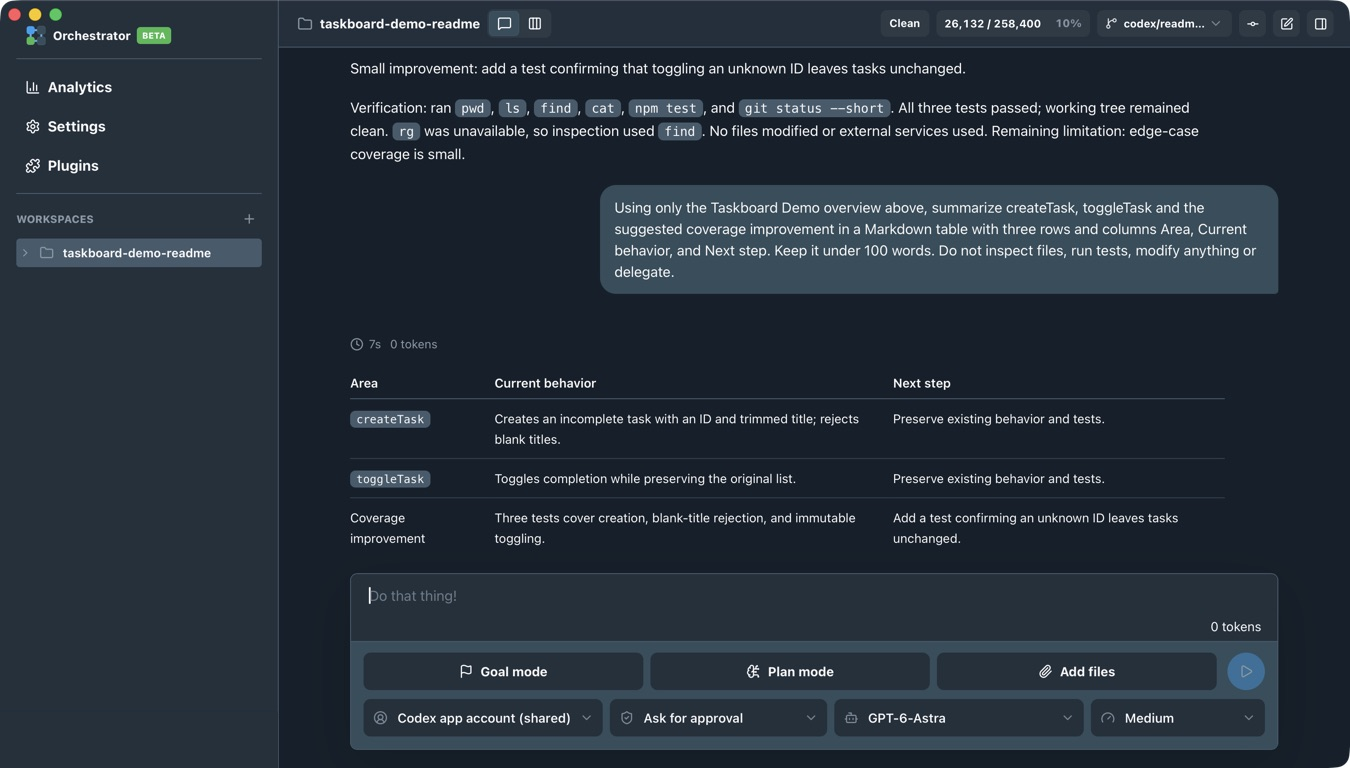
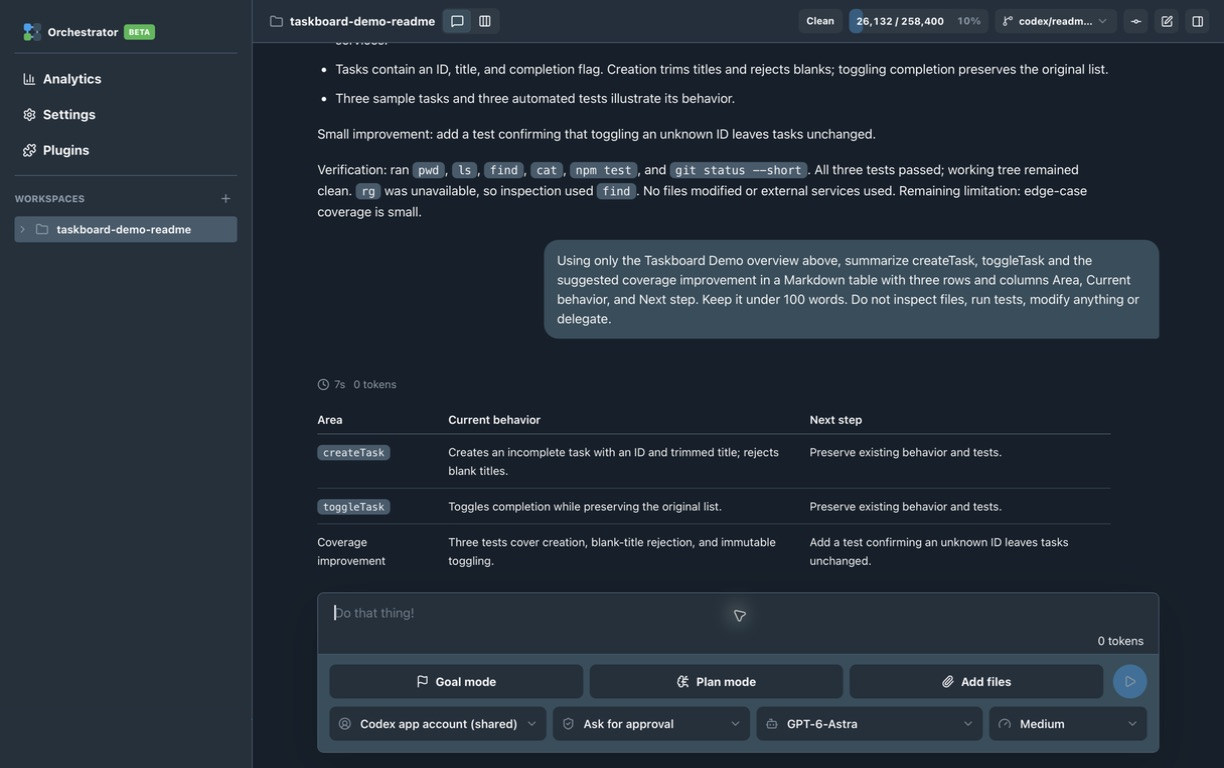
Use full-screen Chat and Kanban captures with square edges

diff --git a/docs/assets/screenshots/README.md b/docs/assets/screenshots/README.md
@@ -6,10 +6,10 @@ The README uses genuine Orchestrator screens and a fictional local project, **Ta
 
 - Candidate: `3f0704303ddc2ef8be010d477ddc998176a7ed26` (`0.2.0-beta.2`). The capture build uses the candidate application code unchanged, with a temporary Tauri configuration overriding only the isolated application identifier and initial window dimensions. Release preparation changes publication scripts and documentation only.
 - Chat was recaptured from the original isolated Taskboard Demo database and local repository. No personal database was copied. The follow-up asked for a three-row Markdown table based only on the existing overview, with no file inspection, modifications, tests or delegation. The response and its reported **7s / 0 tokens** are retained as displayed; the token figure is not corrected or inferred. The older verification text above it belongs to the original 8 September conversation.
-- Chat and Kanban exports: 1350 × 768 native capture pixels each, with consistent dark-theme window framing and no resizing or upscaling. The complete account footer at `(0, 712)`–`(278, 768)` was replaced with the existing opaque sidebar background. Every pixel outside that rectangle is unchanged. Metadata was removed without changing decoded pixels; visual inspection and OCR found no remaining account identity or private paths.
+- Chat and Kanban exports: both recaptured in macOS full-screen mode at the maintainer's request, with square edges and no window corners or title-bar buttons. The capture tool returned 1224 × 768 pixels each; the PNG exports retain those dimensions without further resizing or upscaling. The complete account footer at `(0, 714)`–`(251, 768)` was replaced with the existing opaque sidebar background. Every pixel outside that rectangle is unchanged. Metadata was removed without changing decoded pixels; visual inspection and OCR found no remaining account identity or private paths.
 - Kanban was recaptured from the same candidate and existing demo board. The target-branch selector shows `codex/readme-demo` immediately before refresh and archive. The two backlog cards and filtering card awaiting local review are unchanged; no cards were rerun, moved, committed or published for this capture.
 - The four supporting screenshots retain their original pixels and capture dates. Candidate comparison found no relevant visible change in the scenes: file preview and local diff layouts are unchanged; the subagent image has prose and no table; Analytics has no changed release UI. These historical captures are not relabelled as beta.2 recaptures.
-- README preview uses GitHub-rendered Markdown. Desktop (1280-pixel) and narrow (390-pixel) layouts have no horizontal overflow; all six images load with descriptive alt text and links to the matching full-size PNG. Both refreshed images open at 1350 × 768.
+- README preview uses GitHub-rendered Markdown. Desktop (1280-pixel) and narrow (390-pixel) layouts have no horizontal overflow; all six images load with descriptive alt text and links to the matching full-size PNG. Both refreshed images open at 1224 × 768.
 
 ## Original capture target — 8 September 2026
 
@@ -43,14 +43,14 @@ The demo contains two real backlog cards and one filtering card awaiting local r
 
 | File | Pixels | Bytes |
 |---|---:|---:|
-| `chat.png` | 1350 × 768 | 386,617 |
+| `chat.png` | 1224 × 768 | 379,737 |
 | `file-contents.png` | 3024 × 1892 | 281,145 |
-| `kanban.png` | 1350 × 768 | 297,887 |
+| `kanban.png` | 1224 × 768 | 258,113 |
 | `subagents.png` | 1067 × 721 | 458,932 |
 | `change-review.png` | 3024 × 1892 | 370,787 |
 | `analytics.png` | 2344 × 1462 | 207,681 |
 
-Combined size: **2,003,049 bytes**. Both refreshed exports passed visual, OCR and PNG metadata inspection. Retained images preserve their previously reviewed pixel data and privacy treatment. All six final PNGs contain only `IHDR`, `IDAT` and `IEND` chunks.
+Combined size: **1,956,395 bytes**. Both refreshed exports passed visual, OCR and PNG metadata inspection. Retained images preserve their previously reviewed pixel data and privacy treatment. All six final PNGs contain only `IHDR`, `IDAT` and `IEND` chunks.
 
 ## Privacy and export checklist
 

diff --git a/README.md b/README.md
@@ -48,7 +48,7 @@ Start with a prompt, keep the conversation alongside your workspace, and follow 
 
 [![Taskboard Demo conversation showing the updated transcript, a readable Markdown table and the prompt composer.](docs/assets/screenshots/chat.png)](docs/assets/screenshots/chat.png)
 
-*Chat and Kanban were captured from the beta.2 candidate using the fictional Taskboard Demo. Account identities are removed; task results and activity remain genuine. Click any screenshot to view it at full size.*
+*Chat and Kanban were captured in full screen from the beta.2 candidate using the fictional Taskboard Demo. Account identities are removed; task results and activity remain genuine. Click any screenshot to view it at full size.*
 
 ## Feature tour
 
